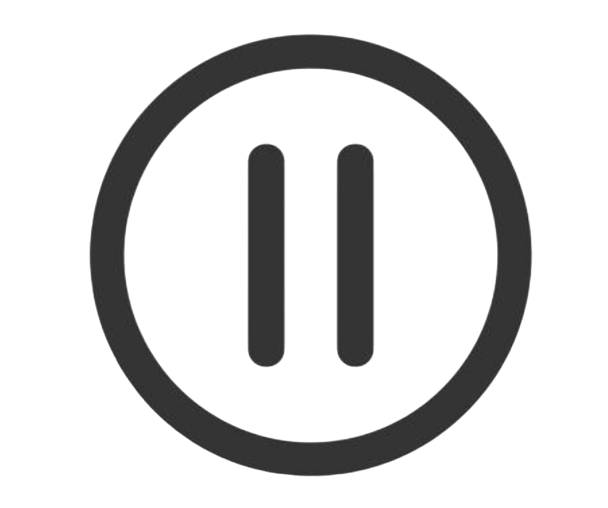
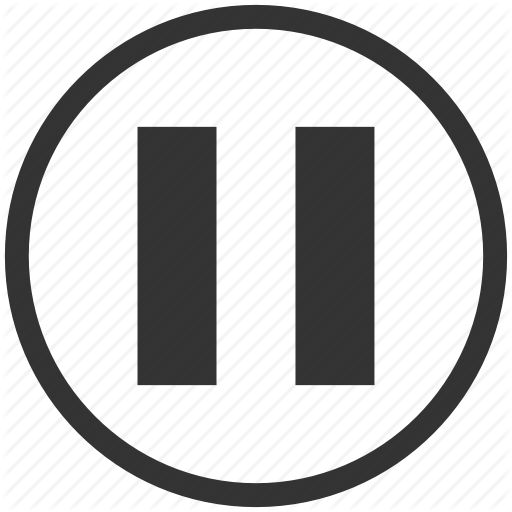
ultimo testeee

diff --git a/index.html b/index.html
@@ -5,7 +5,7 @@
   <title>Toca Aí 🎧</title>
   <style>
   #play {
-  background: url("imagens/play.png" ) no-repeat center center;
+  background: url("imagens/play2.png" ) no-repeat center center;
   background-size: contain;
   width: 35px;
   height: 35px;
@@ -14,16 +14,16 @@
   text-indent: -9999px; /* Esconde texto */
 }
   #pause {
-  background: url("imagens/pause7.png" ) no-repeat center center;
+  background: url("imagens/pause.png" ) no-repeat center center;
   background-size: contain;
-  width: 40px;
-  height: 40px;
+  width: 38px;
+  height: 38px;
   border: none;
   cursor: pointer;
   text-indent: -9999px; /* Esconde texto */
 }
 #previous{
-  background: url("imagens/voltar2.png" ) no-repeat center center;
+  background: url("imagens/voltar.png" ) no-repeat center center;
   background-size: contain;
   width: 40px;
   height: 40px;
@@ -32,7 +32,7 @@
   text-indent: -9999px; /* Esconde texto */
 }
 #next{
-  background: url("imagens/pular2.png" ) no-repeat center center;
+  background: url("imagens/pular.png" ) no-repeat center center;
   background-size: contain;
   width: 40px;
   height: 40px;
